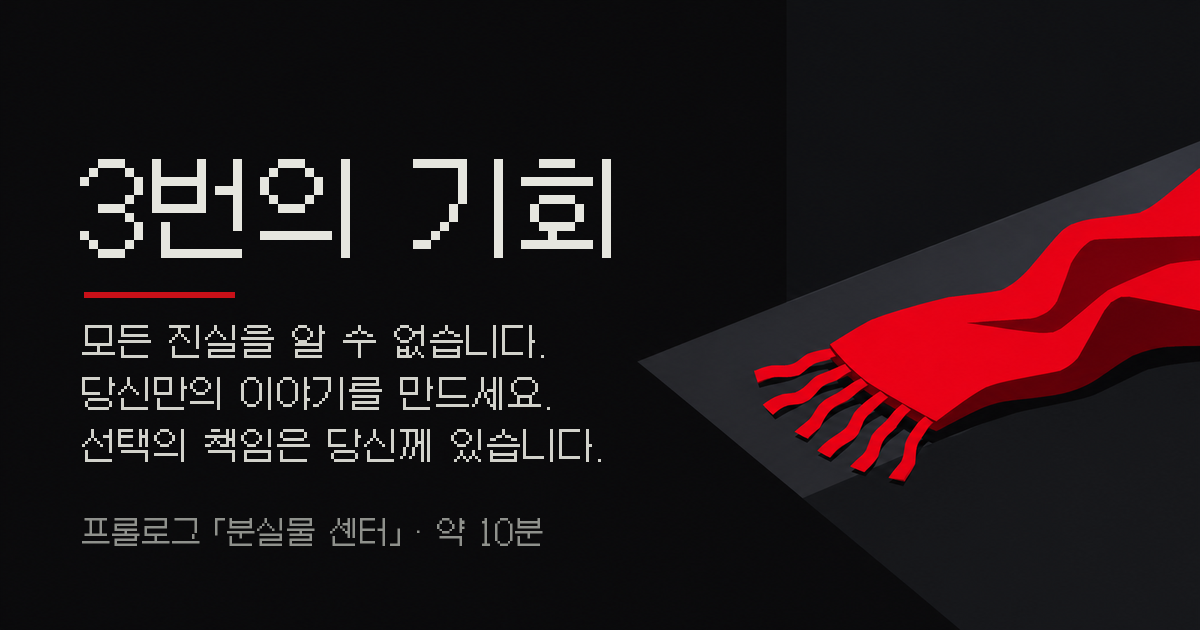
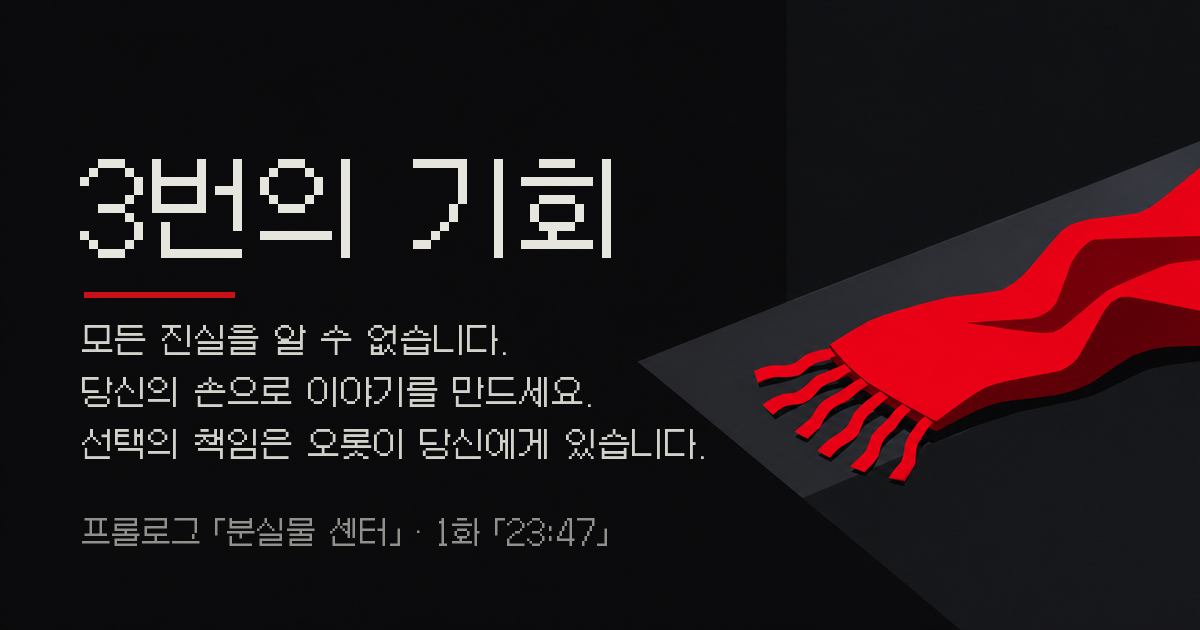
Add files via upload

Changed region(s): [[0.0617, 0.5127, 0.5858, 0.754], [0.37, 0.8143, 0.4933, 0.8746]]

diff --git a/index.html b/index.html
@@ -4,11 +4,11 @@
 <meta charset="utf-8">
 <meta name="viewport" content="width=device-width, initial-scale=1, maximum-scale=1, user-scalable=no">
 <title>3번의 기회</title>
-<meta name="description" content="모든 진실을 알 수 없습니다. 당신만의 이야기를 만드세요. 선택의 책임은 당신께 있습니다.">
+<meta name="description" content="모든 진실을 알 수 없습니다. 당신의 손으로 이야기를 만드세요. 선택의 책임은 오롯이 당신에게 있습니다.">
 <meta property="og:type" content="website">
 <meta property="og:site_name" content="3번의 기회">
 <meta property="og:title" content="3번의 기회 — 프롤로그 「분실물 센터」">
-<meta property="og:description" content="모든 진실을 알 수 없습니다. 당신만의 이야기를 만드세요. 선택의 책임은 당신께 있습니다.">
+<meta property="og:description" content="모든 진실을 알 수 없습니다. 당신의 손으로 이야기를 만드세요. 선택의 책임은 오롯이 당신에게 있습니다.">
 <meta property="og:image" content="https://dbsdugur7955-spec.github.io/3chances/og.png">
 <meta property="og:image:width" content="1200">
 <meta property="og:image:height" content="630">
@@ -161,6 +161,7 @@
   .scr.sheet .psigcv { position: absolute; left: calc(var(--u) * 74); top: calc(var(--u) * 130); width: calc(var(--u) * 47.2); height: calc(var(--u) * 18.4); }
   .scr.sheet .ink.psig { font-family: "Galmuri11", monospace; font-size: calc(var(--u) * 9); letter-spacing: calc(var(--u) * 1); color: #1c2a66; }
   .scr.sheet .ink.cpy { color: #3a3a3c; }
+  .scr.sheet .ink.ruled.r2 { line-height: calc(var(--u) * 8.02); } .scr.sheet .ink.filetag { color: #23304f; }
   .scr.sheet .ink.ruled { line-height: calc(var(--u) * 8.35); color: #23304f; }
   .scr.sheet .kbtn { position: absolute; width: calc(var(--u) * 28); height: calc(var(--u) * 27); border-radius: calc(var(--u) * 4); z-index: 3; cursor: pointer; } .scr.sheet .kbtn.on { background: rgba(255, 255, 255, .45); }
   .scr.sheet .ink.key { font-family: "Galmuri11", monospace; font-size: calc(var(--u) * 13); text-align: center; color: #1f3340; line-height: 1; }
@@ -1272,7 +1273,7 @@
       { t: 'pick5', id: 'l3', word: '살펴볼 수 있는 건', unit: '곳', items: [
         { label: '현관 앞 택배 상자', steps: look(1, { t: 'doc', id: 'e1obj', opt: { pic: 'e1_box', inks: [['fs', '윤서연 님', 34, 42, 80, 8.5], ['fs-s', '화요일 도착', 32, 56, 80, 8.5]], text: '수요일에 내가 들여놓고\n열어 보지 않았다.' } }, '화요일 밤,\n걔는 집에 오지 않았다.', 'e1_door') },
         { label: '현관 안쪽', steps: look(2, { t: 'doc', id: 'prop', opt: { name: 'e1_lock', text: '새로 단 보조 잠금장치.\n나사 구멍 주변에\n석고 가루가 남아 있다.' } }, '언제 이걸 달았지.', 'e1_door') },
-        { label: '책상 위 메모', steps: look(3, { t: 'doc', id: 'e1obj', opt: { pic: 'e1_memo', inks: [['fs ruled', '접근금지 신청\n— 필요한 것:\n\n· 문자 캡처\n· 날짜별 정리\n· 집 앞 사진', 12, 25, 96, -3.3]], text: '옆에 “집 앞 사진”이라고 적힌\n클리어 파일. 텅 비어 있다.' } }, '접근금지..?\n…사진은 다 어디 갔지.') },
+        { label: '책상 위 메모', steps: look(3, { t: 'doc', id: 'e1obj', opt: { pic: 'e1_memo', inks: [['fs-s ruled r2', '접근금지 신청\n— 필요한 것:\n· 문자 캡처\n· 날짜별 정리\n· 집 앞 사진', 16, 51.5, 54, 0], ['fs-s ctr filetag', '집 앞 사진', 86, 58, 47, 0]] } }, '접근금지..?\n…사진은 다 어디 갔지.') },
         { label: '옷걸이', steps: look(4, { t: 'doc', id: 'prop', opt: { name: 'e1_rack', text: '빨간 목도리가 없다.\n옆에 늘 걸던\n금색 체인 가방도.' } }, '그 목도리, 내가 사 준 거.\n제일 아끼는 가방도 없네.') },
         { label: '책장', steps: look(5, { t: 'doc', id: 'prop', opt: { name: 'e1_shelf', text: '여행 책 몇 권,\n제주도 엽서 한 장.' } }, '…별다른 건 없다.') }
       ] },
@@ -1781,12 +1782,6 @@
     var st = ASK[set];
     if (st.left <= 0) { queue = afterAsk(set).concat(queue); return next(); }
     setHud(); show(pick, true); pick.className = ''; pick.textContent = '';
-    var early = $('early'); early.textContent = ''; show(early, true);
-    [['give', '내준다'], ['refuse', '거절한다']].forEach(function (o) {
-      var eb = el('button', o[0], o[1]);
-      onPress(eb, function () { queue = outcome(set, o[0]).concat(queue); next(); });
-      early.appendChild(eb);
-    });
     var top = el('div', 'top fs-s');
     var cnt = el('span'); cnt.appendChild(document.createTextNode('물을 수 있는 건 ')); cnt.appendChild(el('b', null, st.left + '번')); top.appendChild(cnt);
     top.appendChild(ledgerBtn({ t: 'ask', set: set })); pick.appendChild(top);
@@ -1864,7 +1859,7 @@
     freshState(); hideAll(); mode = 'title'; show($('menuBtn'), false); show($('menu'), false); backdrop();
     show(ov, true); ov.className = 'fs title';
     ov.appendChild(el('h1', null, '3번의 기회'));
-    ov.appendChild(el('div', 'ep fs-s', '모든 진실을 알 수 없습니다.\n당신만의 이야기를 만드세요.\n선택의 책임은 당신께 있습니다.'));
+    ov.appendChild(el('div', 'ep fs-s', '모든 진실을 알 수 없습니다.\n당신의 손으로 이야기를 만드세요.\n선택의 책임은 오롯이 당신에게 있습니다.'));
     var acts = el('div', 'acts'), sv = load(SAVE), meta = load(META) || {};
     if (sv && SCENE[sv.id] && sv.id !== 'sOpen') {
       var c = el('button', 'main', '이어하기'); c.appendChild(el('small', null, SCENE[sv.id][0] + ' · ' + SCENE[sv.id][1]));
@@ -1889,7 +1884,7 @@
     var meta = load(META) || {}, sv = load(SAVE), done = meta.prologue && meta.prologue.done;
     var r = el('div', 'erow'); r.appendChild(el('div', 'no fs-s', '프롤로그')); r.appendChild(el('div', 'nm', '분실물 센터'));
     var phone = done ? { '센터': '휴대폰은 서랍에 남았다', '언니': '휴대폰은 언니가 가져갔다', '민재': '휴대폰은 강민재가 가져갔다' }[meta.prologue.PHONE] : '';
-    r.appendChild(el('div', 'st fs-s' + (done ? ' done' : ''), done ? '완료 · ' + phone : sv && sv.id !== 'sOpen' && sv.id.charAt(0) !== 'e' ? '진행 중 · ' + SCENE[sv.id][0] : '약 10분'));
+    r.appendChild(el('div', 'st fs-s' + (done ? ' done' : ''), done ? '완료 · ' + phone : sv && sv.id !== 'sOpen' && sv.id.charAt(0) !== 'e' ? '진행 중 · ' + SCENE[sv.id][0] : ''));
     var b = el('button', null, done ? '다시 하기' : '시작하기'); onPress(b, function () { store(SAVE, null); start(sOpen); }); r.appendChild(b);
     if (DEV) {                                        // scene jump: test only
       var j = el('div', 'jrow');
@@ -1901,7 +1896,7 @@
     ov.appendChild(r);
     var in1 = sv && sv.id.charAt(0) === 'e', d1 = meta.ep1 && meta.ep1.done;
     var r2 = el('div', 'erow' + (done || DEV ? '' : ' lock')); r2.appendChild(el('div', 'no fs-s', '1화')); r2.appendChild(el('div', 'nm', '23:47'));
-    r2.appendChild(el('div', 'st fs-s' + (d1 ? ' done' : ''), !(done || DEV) ? '프롤로그를 마치면 열립니다' : d1 ? '완료 · ' + meta.ep1.ending : in1 ? '진행 중 · ' + SCENE[sv.id][0].slice(5) : '약 30분 · 프롤로그의 선택이 이어집니다'));
+    r2.appendChild(el('div', 'st fs-s' + (d1 ? ' done' : ''), !(done || DEV) ? '프롤로그를 마치면 열립니다' : d1 ? '완료 · ' + meta.ep1.ending : in1 ? '진행 중 · ' + SCENE[sv.id][0].slice(5) : '프롤로그의 선택이 이어집니다'));
     if (done || DEV) {
       var b1 = el('button', null, d1 ? '다시 하기' : '시작하기'); onPress(b1, function () { store(SAVE, null); startEp1(e1s1); }); r2.appendChild(b1);
       if (DEV) {
